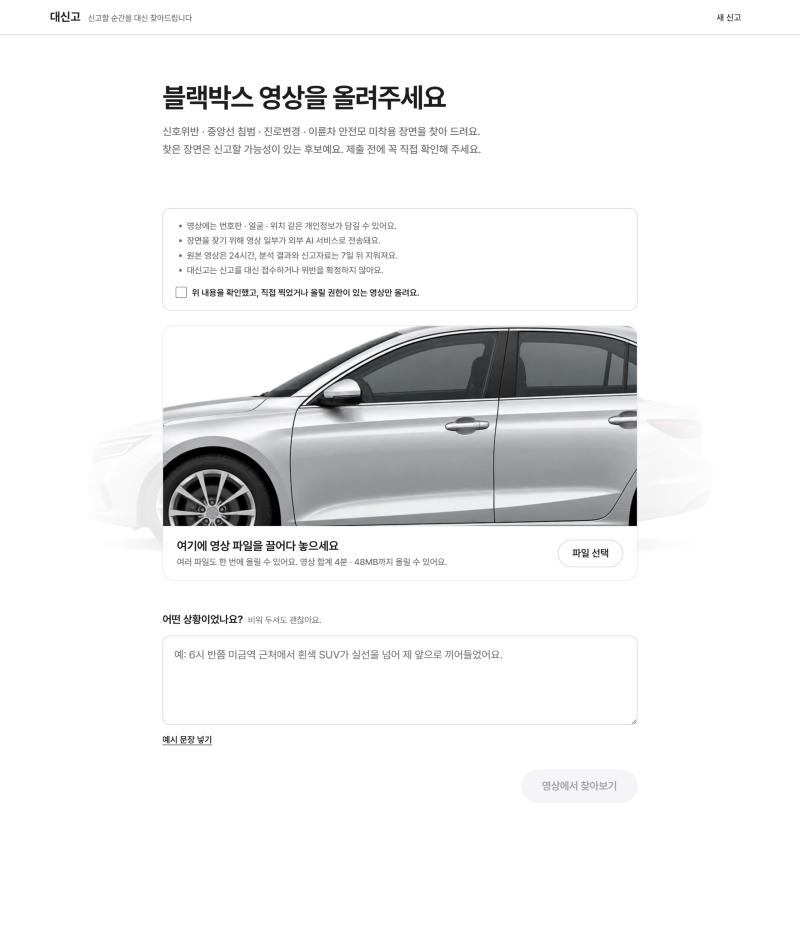
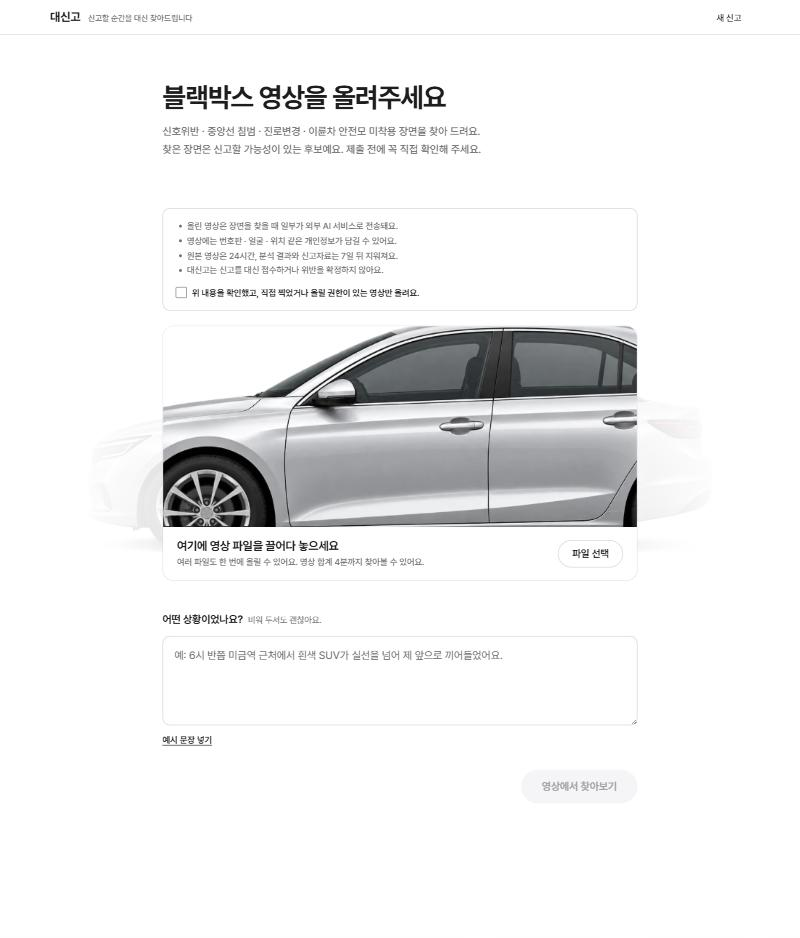
fix(web): 업로드 한도 문구에서 48MB를 뺀다 — 분석 영상 한도라 업로드 크기가 아니다
4분은 배포의 분석 범위 상한(ANALYSIS_MAX_DURATION_MS=240000)이고, 48 MiB는 변환한 분석 영상의 한도다. 업로드 파일 상한은 1 GiB라 48MB로 적으면 틀린 안내가 된다. 캡처 2장도 바뀐 문구로 다시 찍었다.

diff --git a/apps/web/src/screens/UploadScreen.tsx b/apps/web/src/screens/UploadScreen.tsx
@@ -12,8 +12,9 @@ import { Puffs, SpeedLines, burst, seeded, type Puff, type Speed } from '../comp
 import { videoTime, videoTimeText, type VideoTime } from '../state/videoTime'
 
 const EXAMPLE = '6시 반쯤 미금역 근처에서 흰색 SUV가 실선을 넘어 제 앞으로 끼어들었어요.'
-// 공개 운영 한도·원본 보관 안내 — 한도는 지금 검증된 기준값(recording analysis-source-limits). 배포에서 검증된 값이 나오면 이 줄만 바꾼다
-const LIMIT_TEXT = '영상 합계 4분 · 48MB까지 올릴 수 있어요. 올린 영상은 24시간 뒤 지워져요.'
+// 공개 운영 한도·원본 보관 안내 — 4분은 지금 배포의 분석 범위 상한(DAESINGO_RECORDING_ANALYSIS_MAX_DURATION_MS=240000,
+// environment-and-deployment-config §3). 48 MiB는 변환한 분석 영상 한도라 업로드 크기로 적지 않는다. 배포 값이 바뀌면 이 줄만 바꾼다
+const LIMIT_TEXT = '영상 합계 4분까지 찾아볼 수 있어요. 올린 영상은 24시간 뒤 지워져요.'
 
 export type UploadState = 'idle' | 'uploading' | 'done' | 'fail'
 
